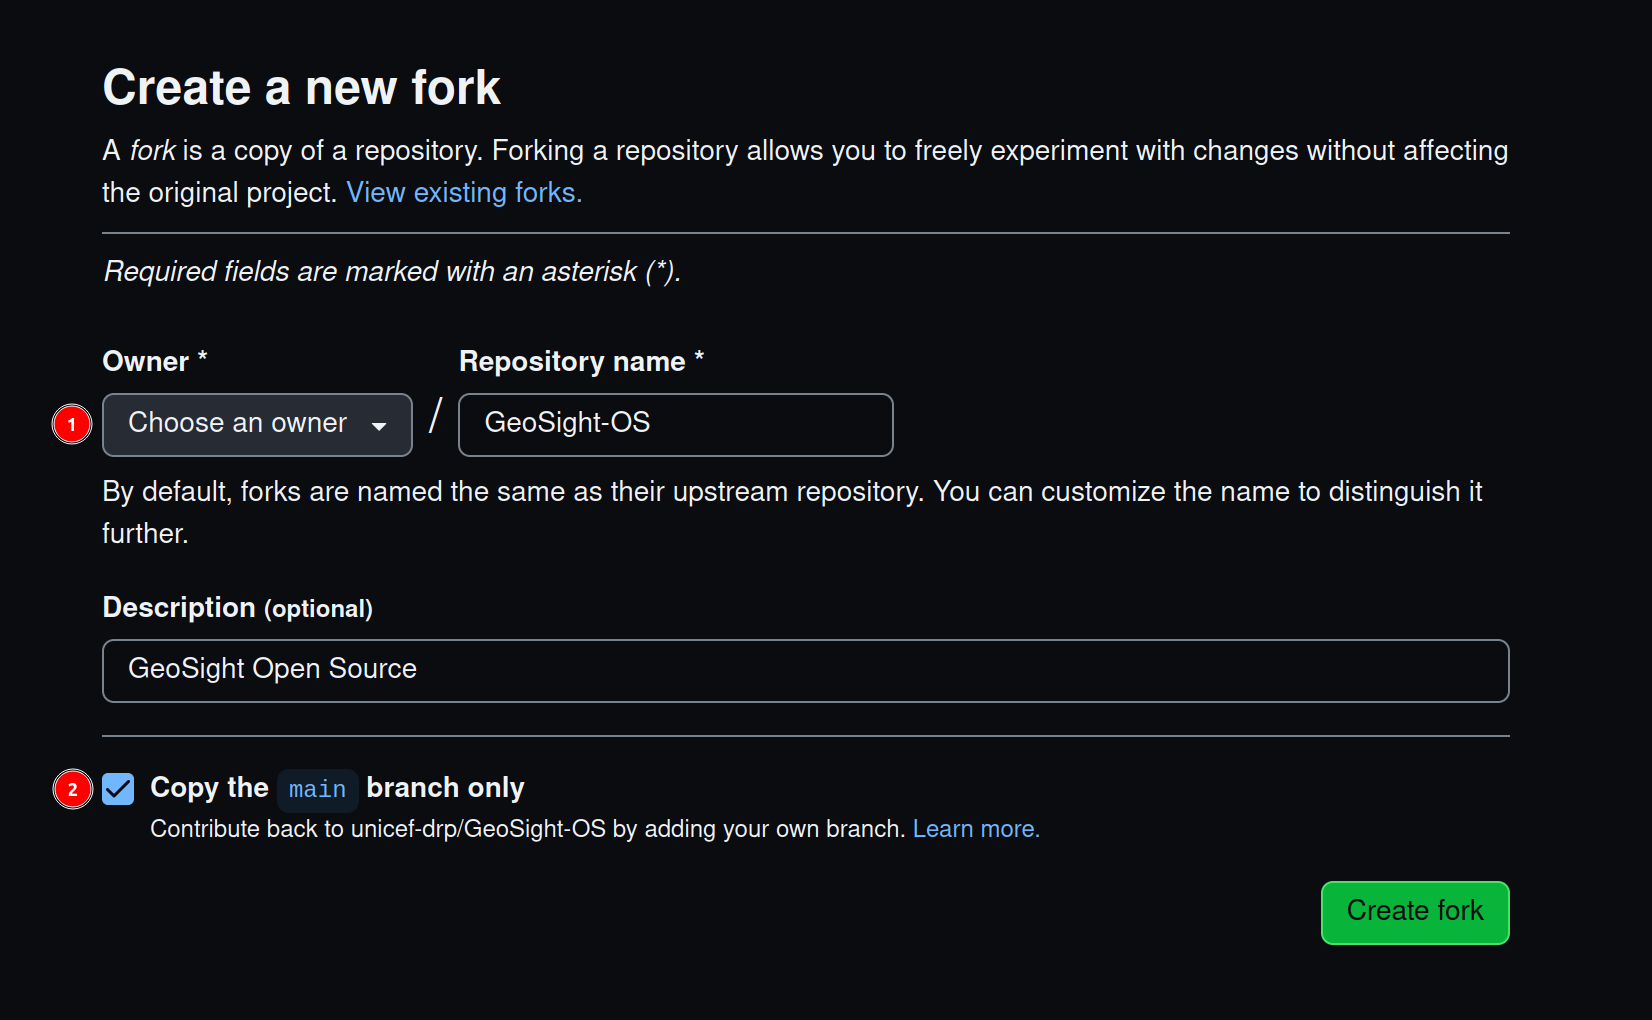
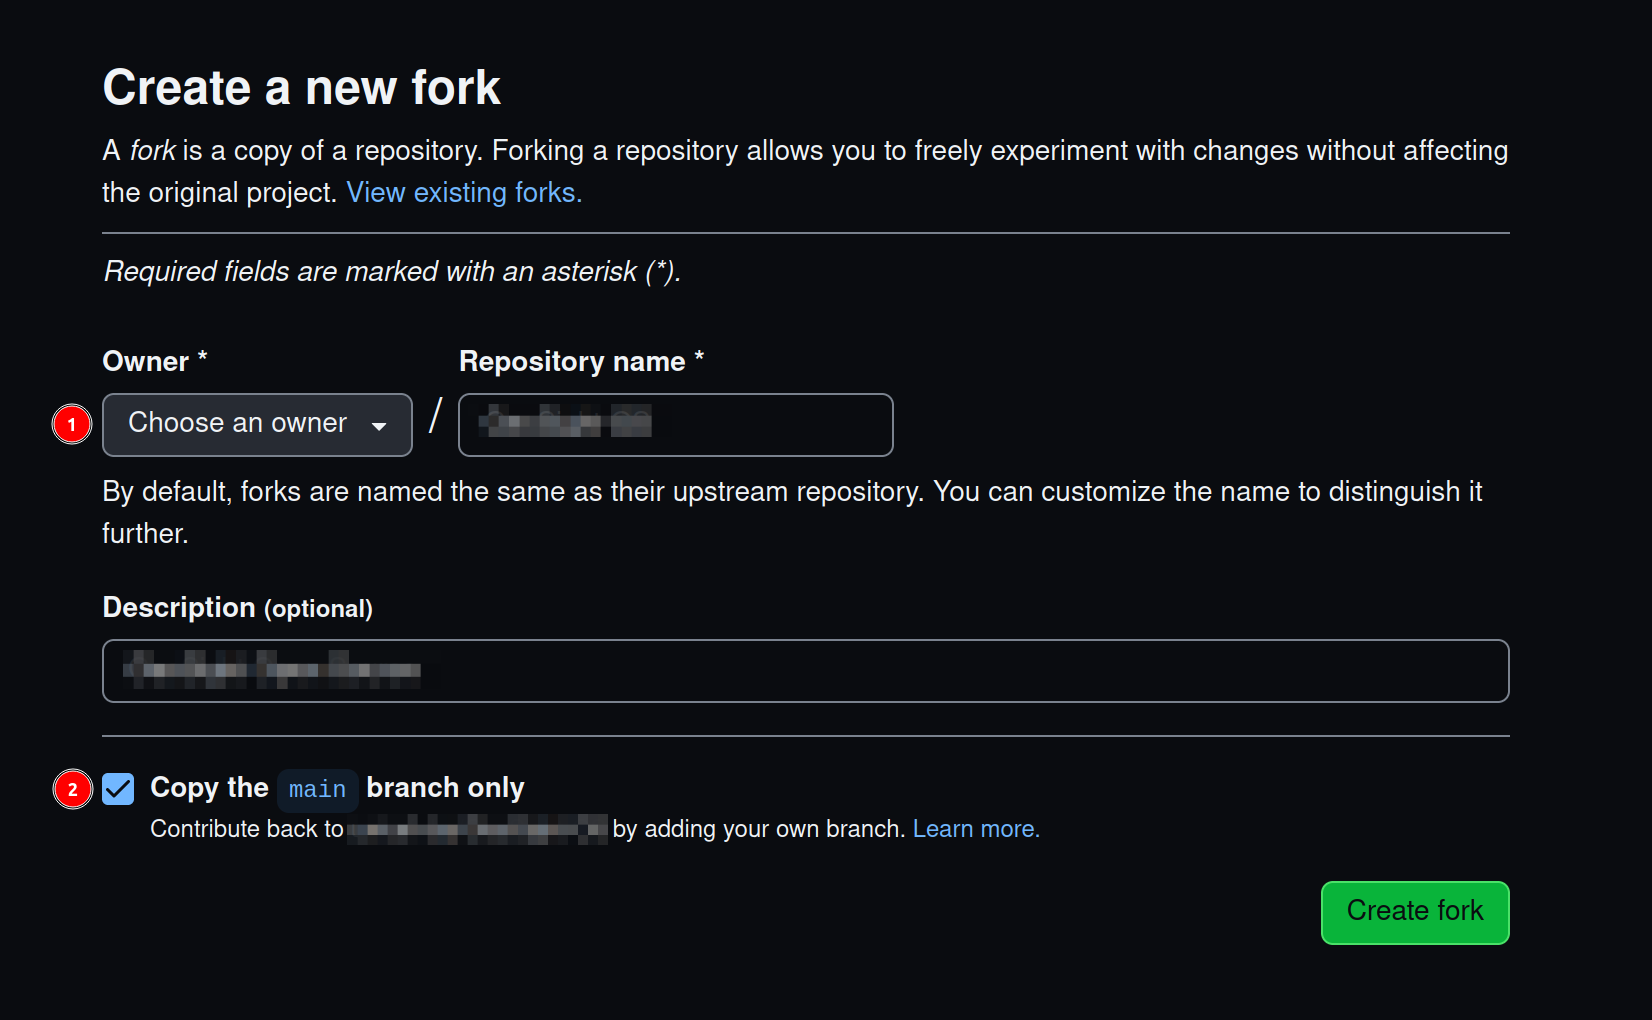
edited dev-docs-images

Changed region(s): [[0.2161, 0.7902, 0.3705, 0.851], [0.0617, 0.6382, 0.2778, 0.6686], [0.2778, 0.3951, 0.4013, 0.4255]]

diff --git a/docs/src/developer/documentation/index.md b/docs/src/developer/documentation/index.md
@@ -136,6 +136,8 @@ Please follow these conventions when writing your documentation:
 
 ## Contributing to the documentation
 
+:pencil2: Note: The repo name in the images below is blurred out, you should work against the GeoSight-OS repository when following these notes.
+
 To start adding to the documentation navigate to the [home page](https://github.com/unicef-drp/GeoSight-OS) of the repository.
 
 Once on the repository home page, (1) click on Fork
